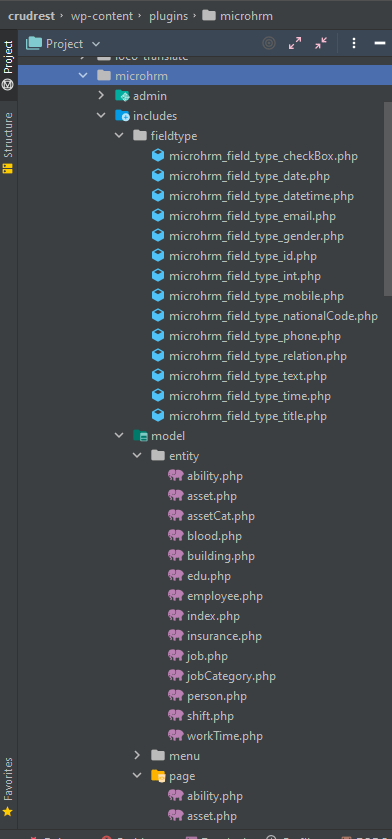
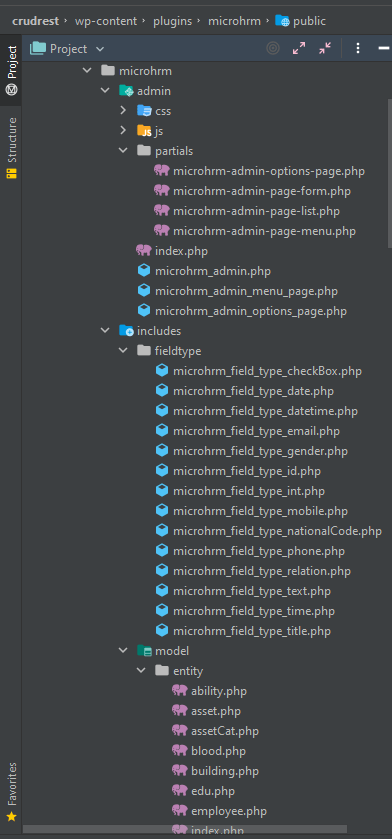
update plugin code screenshot

Changed region(s): [[0.0, 0.0, 1.0, 1.0]]

diff --git a/README.md b/README.md
@@ -82,7 +82,7 @@ Note: Field type repository model use to define entities field types and if not 
 
 #### Generated WordPress plugin code screenshot *(zip this directory and install it on Wordpress as plugin or just copy it to WordPress plugin directory)*:
 ![Generated WordPress plugin code screenshot](screenshots/generated-plugin-code-screenshot.png)
-
+![Generated WordPress plugin code screenshot](screenshots/generated-plugin-code-screenshot2.png)![Generated WordPress plugin code screenshot](screenshots/generated-plugin-code-screenshot3.png)
 ___
 
 #### WordPress plugin pages:
